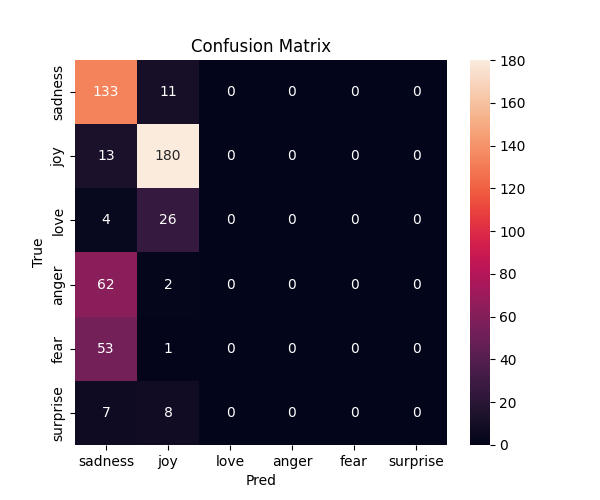
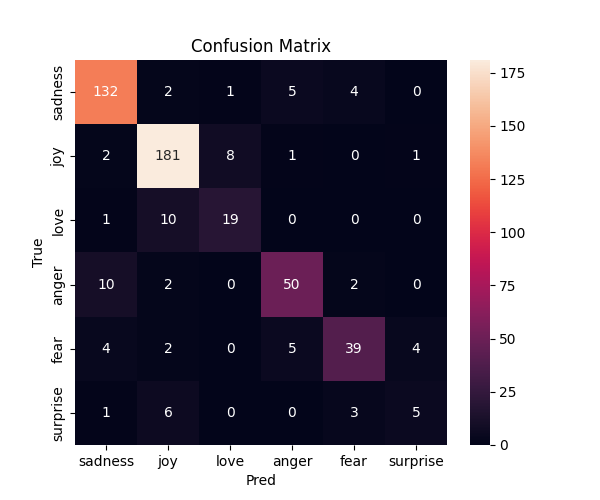
fix 13

diff --git a/homeworks/HW13/report.md b/homeworks/HW13/report.md
@@ -6,13 +6,13 @@
 - Какая BERT-подобная модель использовалась. В качестве модели использовалась bert-base-uncased.
 - Что было показано в части токенизации. В части токенизации показано преобразование текста в токены, input_ids, attention_mask, а также использование special tokens, padding и truncation.
 - Что показал инференс готовой модели. Инференс готовой модели показал слабые и случайные предсказания.
-- Какой результат дал fine-tuning. После fine-tuning модель достигла accuracy ≈ 0.63, но с низким F1_macro.
+- Какой результат дал fine-tuning. После fine-tuning модель достигла accuracy 0.848, f1_macro 0.797 
 
 ## 2. Среда и воспроизводимость
 
 - Python: 3.13
 - datasets: 4.8.4
-- transformers: 5.5.0
+- transformers: 4.46.0
 - torch:  2.10.0
 - Устройство (CPU/GPU): CPU
 - Seed: 42
@@ -52,7 +52,7 @@
 - Как была организована токенизация датасета: через tokenizer с padding и truncation
 - Максимальная длина (`max_length`): 64
 - Batch size: 8
-- Максимальное число эпох: 1
+- Максимальное число эпох: 3
 - Optimizer / learning rate: AdamW, learning_rate = 2e-5
 - Критерий выбора лучшего варианта: метрики на validation
 - Какие метрики считались: accuracy, f1_macro
@@ -66,12 +66,12 @@
 
 Короткая сводка (6-10 строк):
 
-- Итоговая `test_accuracy`: 0.626
-- Итоговая `test_f1_macro`: 0.249
+- Итоговая `test_accuracy`: 0.852
+- Итоговая `test_f1_macro`: 0.739
 - Что показал инференс готовой модели: предсказания были случайными и не отражали эмоции
 - Что изменилось после fine-tuning: модель начала различать классы и давать осмысленные предсказания
-- Какие классы распознаются лучше всего: joy
-- Какие классы модель путает чаще всего: anger, sadness, fear
+- Какие классы распознаются лучше всего: sadness
+- Какие классы модель путает чаще всего: love, anger
 
 ## 7. Анализ
 
@@ -88,7 +88,7 @@
 
 Инференс готовой модели оказался практически бесполезным, так как модель не обучена на задаче классификации эмоций. Предсказания были случайными и не соответствовали реальным меткам.
 
-После fine-tuning качество модели значительно улучшилось. Модель начала правильно классифицировать простые и явно выраженные эмоции, особенно класс joy. Однако метрика F1_macro осталась низкой, что говорит о плохом качестве на отдельных классах. Наиболее показательными ошибками являются случаи, где эмоция выражена неявно или пересекается с другими. Например, модель часто путает anger и sadness, а также плохо распознаёт fear. Это связано с тем, что негативные эмоции имеют схожую окраску и могут выражаться схожими словами.
+После fine-tuning качество модели значительно улучшилось. Модель начала правильно классифицировать простые и явно выраженные эмоции, особенно класс sadness. Метрика F1_macro также выросла. Наиболее показательными ошибками являются случаи, где эмоция выражена неявно или пересекается с другими. Например, модель часто путает anger и sadness, а также плохо распознаёт joy и love. Это связано с тем, что негативные эмоции имеют схожую окраску и могут выражаться схожими словами.
 
 ## 8. Итоговый вывод
 